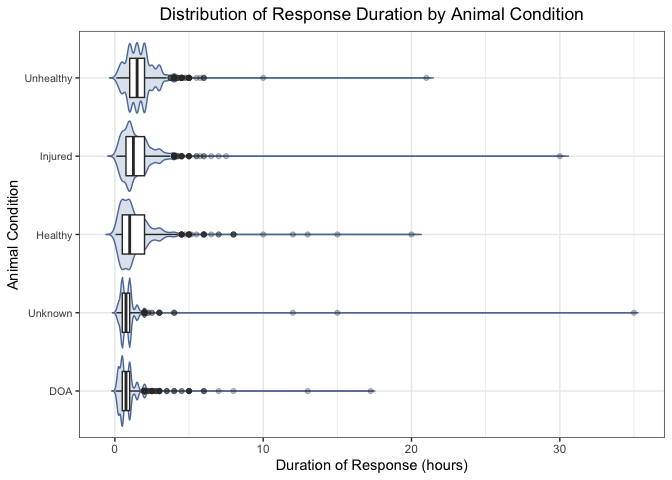
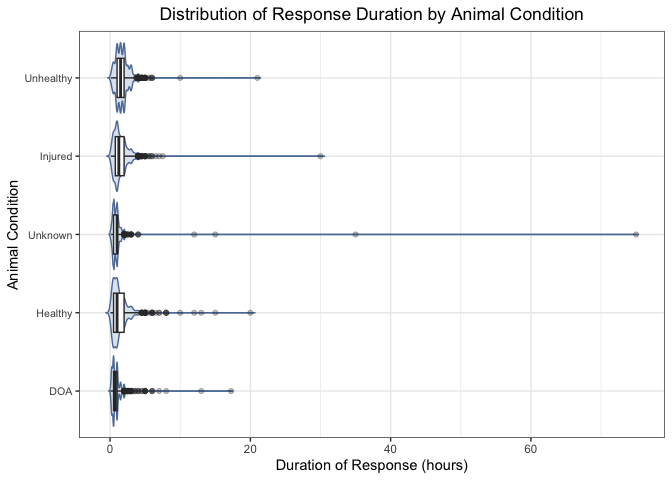
update data cleaning section

diff --git a/p8105_final_project.md b/p8105_final_project.md
@@ -4,7 +4,7 @@ Xinwei Han (xh2601), Xinhui Lin (xl3054), Ruohan Lyu (rl3610), Xinyin
 Miao (xm2356), Fenglin Xie (fx2212)
 2025-12-06
 
-load packages
+Load packages:
 
 ``` r
 library(tidyverse)
@@ -59,8 +59,28 @@ library(scales)
     ## 
     ##     col_factor
 
-Data cleaning: remove incorrect records based on call & response time,
-split date and time
+``` r
+library(stringr)
+library(glmnet)
+```
+
+    ## Loading required package: Matrix
+    ## 
+    ## Attaching package: 'Matrix'
+    ## 
+    ## The following objects are masked from 'package:tidyr':
+    ## 
+    ##     expand, pack, unpack
+    ## 
+    ## Loaded glmnet 4.1-10
+
+Data cleaning:
+
+- Split date and time
+
+- Remove incorrect records based on call & response time
+
+- Rename variable `duration_of_response` to `duration_of_action`
 
 ``` r
 park_ranger = read_csv("data/Urban_Park_Ranger_Animal_Condition_Response_20251103.csv") %>% 
@@ -72,9 +92,10 @@ park_ranger = read_csv("data/Urban_Park_Ranger_Animal_Condition_Response_2025110
     call_date = as.Date(date_and_time_of_initial_call),
     call_time = as_hms(date_and_time_of_initial_call),
     response_date = as.Date(date_and_time_of_ranger_response),
-    response_time = as_hms(date_and_time_of_ranger_response)  ## split date and time
+    response_time = as_hms(date_and_time_of_ranger_response)
   ) %>% 
-  filter(date_and_time_of_ranger_response >= date_and_time_of_initial_call)
+  filter(date_and_time_of_ranger_response >= date_and_time_of_initial_call) %>% 
+  rename(duration_of_action = duration_of_response)
 ```
 
     ## Rows: 6385 Columns: 22
@@ -87,34 +108,14 @@ park_ranger = read_csv("data/Urban_Park_Ranger_Animal_Condition_Response_2025110
     ## ℹ Use `spec()` to retrieve the full column specification for this data.
     ## ℹ Specify the column types or set `show_col_types = FALSE` to quiet this message.
 
-Reclassify animal classes into 7 categories
+- Reclassify animal classes into 7 categories
+
+- Factor categorical variables & set reference level
 
 ``` r
 park_ranger_new = park_ranger %>% 
   mutate(
     animal_class_new = case_when(
-      species_description %in% c(
-        "Atlantic Canary","Bird (Unknown)","Budgerigar","Budgerigar Parakeet",
-        "Chicken","Chukar","Cockatiel","Domestic Dove","Domestic Duck", "Domestic duck",
-        "Domestic Goose","Domestic Goose Hybrid","Domestic Quail","Domestic Turkey",
-        "Domestic Waterfowl","Fancy Dove","Guinea Fowl","Guineafowl","Japanese Quail",
-        "Khaki Campbell","Muscovy Duck","Rock Dove",
-        "Parakeet (Unknown)"
-      ) ~ "Birds / Raptors",
-      
-      species_description %in% c(
-        "Domestic Rabbit","Domestic Ferret","Fancy Rat","Gerbil",
-        "Guinea Pig", "Guniea Pig", "Guinea pig", "Hamster"
-      ) ~ "Small Mammals",
-      
-      species_description %in% c(
-        "Dog","Pitt Bull Mix","Cat","Goat","Cattle","Pig"
-      ) ~ "Large Mammals",
-      
-      species_description %in% c(
-        "Animal (Unknown)","Honey Bee", "Unknown","N/A"
-      ) ~ "Others",
-      
       animal_class %in% c(
         "[\"Birds\"]", "[\"Raptors\"]", "Birds", "Raptors", 
         "Raptors, Small Mammals-RVS"
@@ -150,8 +151,53 @@ park_ranger_new = park_ranger %>%
       animal_class %in% c(
         "[\"Rare, Endangered, Dangerous\"]", "Rare,  Endangered,  Dangerous",
         "Rare, Endangered, Dangerous"
-      ) ~ "Others"
-    )
+      ) ~ "Others",
+      
+      species_description %in% c(
+        "Atlantic Canary","Bird (Unknown)","Budgerigar","Budgerigar Parakeet",
+        "Chicken","Chukar","Cockatiel","Domestic Dove","Domestic Duck", "Domestic duck",
+        "Domestic Goose","Domestic Goose Hybrid","Domestic Quail","Domestic Turkey",
+        "Domestic Waterfowl","Fancy Dove","Guinea Fowl","Guineafowl","Japanese Quail",
+        "Khaki Campbell","Muscovy Duck","Rock Dove",
+        "Parakeet (Unknown)"
+      ) ~ "Birds / Raptors",
+      
+      species_description %in% c(
+        "Domestic Rabbit","Domestic Ferret","Fancy Rat","Gerbil",
+        "Guinea Pig", "Guniea Pig", "Guinea pig", "Hamster"
+      ) ~ "Small Mammals",
+      
+      species_description %in% c(
+        "Dog","Pitt Bull Mix","Cat","Goat","Cattle","Pig"
+      ) ~ "Large Mammals",
+      
+      species_description %in% c(
+        "Animal (Unknown)","Honey Bee", "Unknown","N/A"
+      ) ~ "Others"),
+    
+    animal_class_new = factor(animal_class_new, 
+                              levels = c("Small Mammals", "Large Mammals", "Marine Mammals", 
+                                         "Birds / Raptors", "Reptiles / Amphibians", "Fish", "Others")),
+    
+    borough = factor(borough, levels = c("Queens", "Manhattan", "Brooklyn", "Bronx", "Staten Island")),
+    
+    call_source = factor(call_source, levels = c("Employee", "Public", "Central", 
+                                                 "Conservancies/\"Friends of\" Groups", 
+                                                 "Observed by Ranger", "WBF", "WINORR", "Other")),
+    
+    species_status = ifelse(species_status == "N/A" | is.na(species_status), 
+                            "Unknown", species_status),
+    species_status = factor(species_status, levels = c("Unknown", "Native", "Domestic", 
+                                                       "Exotic", "Invasive")),
+    
+    animal_condition = ifelse(animal_condition == "N/A" | is.na(animal_condition), 
+                              "Unknown", animal_condition),
+    animal_condition = factor(animal_condition, levels = c("Unknown", "Healthy", 
+                                                           "Unhealthy", "Injured", "DOA")),
+    
+    adult   = if_else(str_detect(age, "Adult"),   1L, 0L, missing = 0L),
+    juvenile = if_else(str_detect(age, "Juvenile"), 1L, 0L, missing = 0L),
+    infant  = if_else(str_detect(age, "Infant"),  1L, 0L, missing = 0L)
   )
 ```
 
@@ -160,12 +206,12 @@ table(park_ranger_new$animal_class_new)
 ```
 
     ## 
-    ##       Birds / Raptors                  Fish         Large Mammals 
-    ##                  2670                    20                   771 
-    ##        Marine Mammals                Others Reptiles / Amphibians 
-    ##                    49                    22                   378 
-    ##         Small Mammals 
-    ##                  2267
+    ##         Small Mammals         Large Mammals        Marine Mammals 
+    ##                  2270                   770                    49 
+    ##       Birds / Raptors Reptiles / Amphibians                  Fish 
+    ##                  2672                   378                    20 
+    ##                Others 
+    ##                    18
 
 # TASK 1: Monthly trends by animal class using the new classification
 
@@ -339,7 +385,7 @@ monitoring programs and coordinated rehabilitation networks.
 park_model = park_ranger_new |>
   rename(num_animals = matches("animals")) |>
   mutate(
-    duration_hours      = as.numeric(duration_of_response),
+    duration_hours      = as.numeric(duration_of_action),
     num_animals         = as.numeric(num_animals),
     final_ranger_action = as.factor(final_ranger_action),
     animal_condition    = as.factor(animal_condition)
@@ -452,7 +498,7 @@ rehabilitation partners.
 park_model <- park_ranger_new |>
   rename(num_animals = matches("animals")) |>
   mutate(
-    duration_hours      = as.numeric(duration_of_response),
+    duration_hours      = as.numeric(duration_of_action),
     num_animals         = as.numeric(num_animals),
 
     animal_condition    = as.character(animal_condition),
@@ -564,8 +610,8 @@ duration_mean
     ## # A tibble: 2 × 2
     ##   action_group  mean_duration
     ##   <chr>                 <dbl>
-    ## 1 Other actions         1.52 
-    ## 2 Unfounded             0.997
+    ## 1 Other actions         1.54 
+    ## 2 Unfounded             0.995
 
 ## Density Plot
 
@@ -664,12 +710,12 @@ anova_fit = aov(
 summary(anova_fit)
 ```
 
-    ##                                        Df Sum Sq Mean Sq F value   Pr(>F)    
-    ## final_ranger_action                     7   1441  205.86 145.072  < 2e-16 ***
-    ## animal_condition                        4      5    1.28   0.900 0.462720    
-    ## num_animals                             1      0    0.09   0.062 0.803400    
-    ## final_ranger_action:animal_condition   24     81    3.38   2.383 0.000165 ***
-    ## Residuals                            6094   8648    1.42                     
+    ##                                        Df Sum Sq Mean Sq F value Pr(>F)    
+    ## final_ranger_action                     7   1519  216.94  97.825 <2e-16 ***
+    ## animal_condition                        4      6    1.57   0.706  0.588    
+    ## num_animals                             1      4    4.27   1.924  0.165    
+    ## final_ranger_action:animal_condition   24    492   20.51   9.249 <2e-16 ***
+    ## Residuals                            6127  13588    2.22                   
     ## ---
     ## Signif. codes:  0 '***' 0.001 '**' 0.01 '*' 0.05 '.' 0.1 ' ' 1
 
@@ -705,11 +751,11 @@ summary(anova_fit_log)
 ```
 
     ##                                        Df Sum Sq Mean Sq F value   Pr(>F)    
-    ## final_ranger_action                     7 1028.8  146.97 356.111  < 2e-16 ***
-    ## animal_condition                        4    8.4    2.11   5.108 0.000416 ***
-    ## num_animals                             1    0.5    0.50   1.221 0.269247    
-    ## final_ranger_action:animal_condition   24   30.3    1.26   3.059 7.34e-07 ***
-    ## Residuals                            6094 2515.1    0.41                     
+    ## final_ranger_action                     7 1037.5  148.22 357.609  < 2e-16 ***
+    ## animal_condition                        4    7.9    1.96   4.736 0.000816 ***
+    ## num_animals                             1    0.6    0.65   1.564 0.211132    
+    ## final_ranger_action:animal_condition   24   29.1    1.21   2.924 2.27e-06 ***
+    ## Residuals                            6127 2539.5    0.41                     
     ## ---
     ## Signif. codes:  0 '***' 0.001 '**' 0.01 '*' 0.05 '.' 0.1 ' ' 1
 
@@ -720,7 +766,7 @@ plot(anova_fit_log, which = 2)  # Normal Q-Q
 ```
 
     ## Warning: not plotting observations with leverage one:
-    ##   3810, 4638, 5038
+    ##   4660, 5064
 
 ![](p8105_final_project_files/figure-gfm/unnamed-chunk-19-1.png)<!-- -->
 
